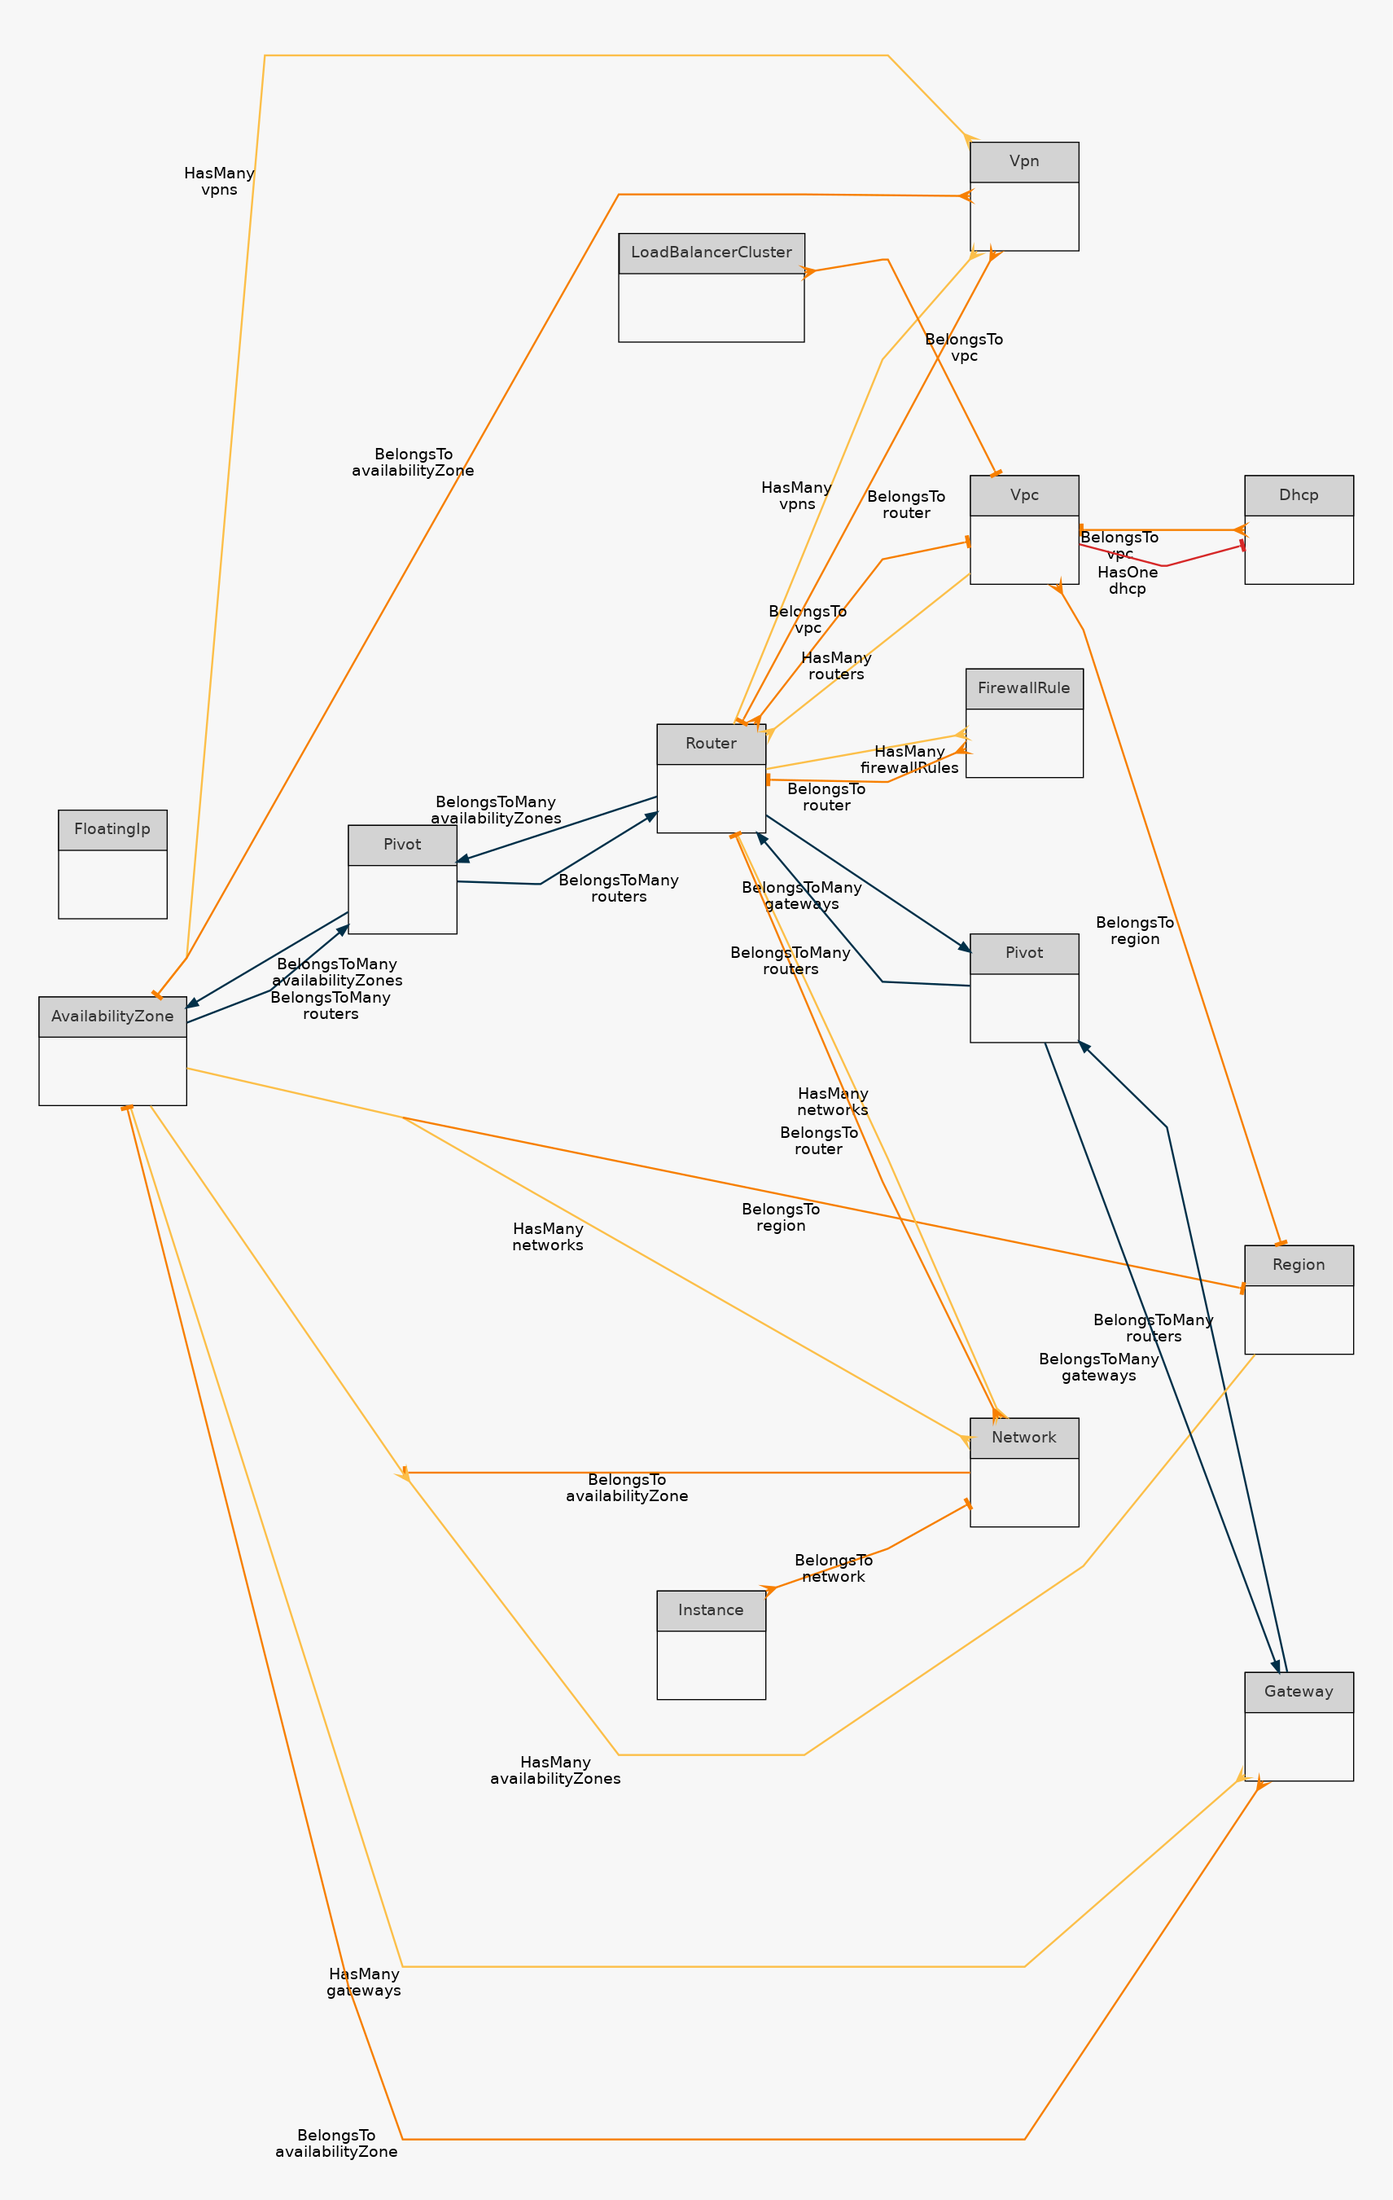
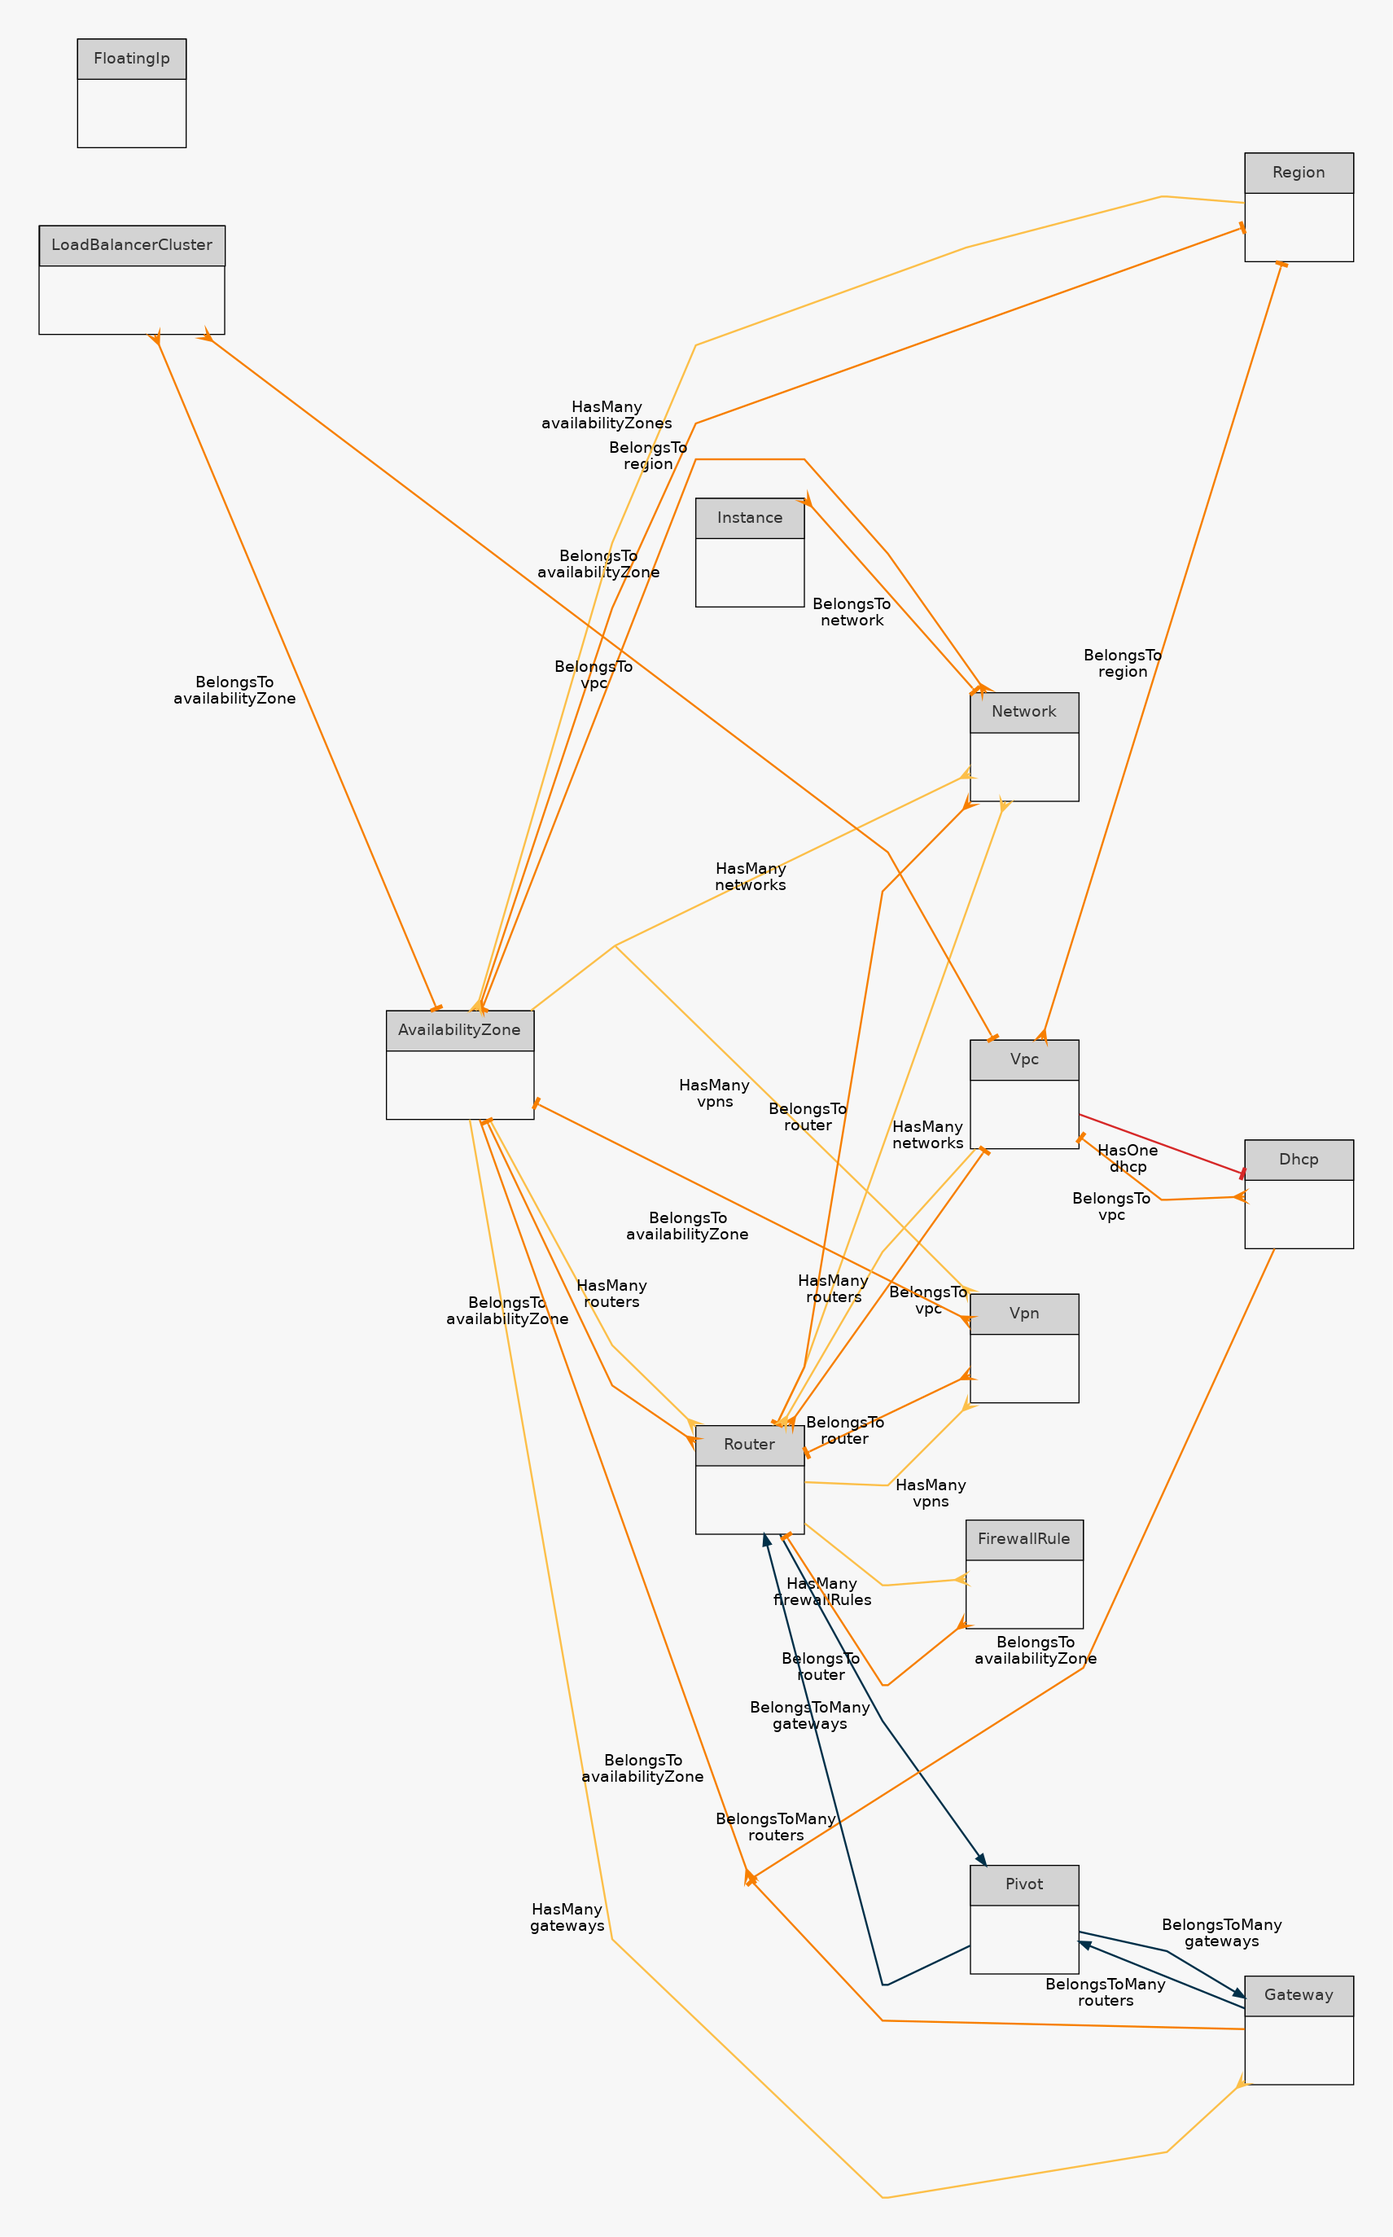
Removed router endpoints from the AZ controller Removed the AZ endpoints from the router controller Changed deployDefault to link the router to a single AZ Changed the DHCP deployment listen to deploy to a single AZ Added AZ to Dhcp model/db Amended AZ to belongsTo for Router model/db Amended Router

diff --git a/app/Models/V2/Router.php b/app/Models/V2/Router.php
@@ -35,6 +35,7 @@ class Router extends Model implements Filterable, Sortable
         'id',
         'name',
         'vpc_id',
+        'availability_zone_id',
         'deployed',
     ];
 
@@ -55,9 +56,9 @@ class Router extends Model implements Filterable, Sortable
         return $this->belongsToMany(Gateway::class);
     }
 
-    public function availabilityZones()
+    public function availabilityZone()
     {
-        return $this->belongsToMany(AvailabilityZone::class);
+        return $this->belongsTo(AvailabilityZone::class);
     }
 
     public function vpns()
@@ -89,7 +90,7 @@ class Router extends Model implements Filterable, Sortable
     public function getAvailableAttribute()
     {
         try {
-            $response = $this->availabilityZones()->first()->nsxClient()->get(
+            $response = $this->availabilityZone->nsxClient()->get(
                 'policy/api/v1/infra/tier-1s/' . $this->getKey() . '/state'
             );
             $response = json_decode($response->getBody()->getContents());
@@ -127,6 +128,7 @@ class Router extends Model implements Filterable, Sortable
             $factory->create('id', Filter::$stringDefaults),
             $factory->create('name', Filter::$stringDefaults),
             $factory->create('vpc_id', Filter::$stringDefaults),
+            $factory->create('availability_zone_id', Filter::$stringDefaults),
             $factory->create('deployed', Filter::$enumDefaults),
             $factory->create('created_at', Filter::$dateDefaults),
             $factory->create('updated_at', Filter::$dateDefaults),
@@ -144,6 +146,7 @@ class Router extends Model implements Filterable, Sortable
             $factory->create('id'),
             $factory->create('name'),
             $factory->create('vpc_id'),
+            $factory->create('availability_zone_id'),
             $factory->create('deployed'),
             $factory->create('created_at'),
             $factory->create('updated_at'),
@@ -168,6 +171,7 @@ class Router extends Model implements Filterable, Sortable
             'id' => 'id',
             'name' => 'name',
             'vpc_id' => 'vpc_id',
+            'availability_zone_id' => 'availability_zone_id',
             'deployed' => 'deployed',
             'created_at' => 'created_at',
             'updated_at' => 'updated_at',

diff --git a/tests/V2/NewIDTest.php b/tests/V2/NewIDTest.php
@@ -119,64 +119,6 @@ class NewIDTest extends TestCase
         );
     }
 
-    public function testAvailabilityZonesRouterAssociation()
-    {
-        $availabilityZones = factory(AvailabilityZone::class)->create();
-        $router = factory(Router::class)->create();
-        $this->put(
-            '/v2/availability-zones/' . $availabilityZones->getKey() . '/routers/' . $router->getKey(),
-            [],
-            [
-                'X-consumer-custom-id' => '0-0',
-                'X-consumer-groups'    => 'ecloud.write',
-            ]
-        )
-            ->assertResponseStatus(204);
-
-        // test that the association has occurred
-        $router->refresh();
-        $associated = $availabilityZones->routers()->first();
-        $this->assertEquals($associated->getKey(), $router->getKey());
-
-        // Test IDs
-        $this->assertRegExp(
-            $this->generateRegExp(AvailabilityZone::class),
-            $availabilityZones->id
-        );
-        $this->assertRegExp(
-            $this->generateRegExp(Router::class),
-            $router->id
-        );
-    }
-
-    public function testAvailabilityZonesRouterDisassociation()
-    {
-        $availabilityZones = factory(AvailabilityZone::class)->create();
-        $router = factory(Router::class)->create();
-        $availabilityZones->routers()->attach($router->getKey());
-        $this->delete(
-            '/v2/availability-zones/' . $availabilityZones->getKey() . '/routers/' . $router->getKey(),
-            [],
-            [
-                'X-consumer-custom-id' => '0-0',
-                'X-consumer-groups'    => 'ecloud.write',
-            ]
-        )
-            ->assertResponseStatus(204);
-        $router->refresh();
-        $this->assertEquals(0, $availabilityZones->routers()->count());
-
-        // Test IDs
-        $this->assertRegExp(
-            $this->generateRegExp(AvailabilityZone::class),
-            $availabilityZones->id
-        );
-        $this->assertRegExp(
-            $this->generateRegExp(Router::class),
-            $router->id
-        );
-    }
-
     public function testRoutersGatewaysAssociation()
     {
         $router = factory(Router::class)->create();

diff --git a/app/Listeners/V2/DhcpDeploy.php b/app/Listeners/V2/DhcpDeploy.php
@@ -19,26 +19,23 @@ class DhcpDeploy implements ShouldQueue
     public function handle(DhcpCreated $event)
     {
         $dhcp = $event->dhcp;
-
-        $event->dhcp->vpc->region->availabilityZones()->each(function ($availabilityZone) use ($dhcp) {
-            try {
-                $availabilityZone->nsxClient()->put('/policy/api/v1/infra/dhcp-server-configs/' . $dhcp->getKey(), [
-                    'json' => [
-                        'lease_time' => config('defaults.dhcp.lease_time'),
-                        'edge_cluster_path' => '/infra/sites/default/enforcement-points/default/edge-clusters/'
-                            . $availabilityZone->nsxClient()->getEdgeClusterId(),
-                        'resource_type' => 'DhcpServerConfig',
-                        'tags' => [
-                            [
-                                'scope' => config('defaults.tag.scope'),
-                                'tag' => $dhcp->vpc->getKey()
-                            ]
+        try {
+            $dhcp->availabilityZone->nsxClient()->put('/policy/api/v1/infra/dhcp-server-configs/' . $dhcp->getKey(), [
+                'json' => [
+                    'lease_time' => config('defaults.dhcp.lease_time'),
+                    'edge_cluster_path' => '/infra/sites/default/enforcement-points/default/edge-clusters/'
+                        . $dhcp->availabilityZone->nsxClient()->getEdgeClusterId(),
+                    'resource_type' => 'DhcpServerConfig',
+                    'tags' => [
+                        [
+                            'scope' => config('defaults.tag.scope'),
+                            'tag' => $dhcp->vpc->getKey()
                         ]
                     ]
-                ]);
-            } catch (GuzzleException $exception) {
-                throw new \Exception($exception->getResponse()->getBody()->getContents());
-            }
-        });
+                ]
+            ]);
+        } catch (GuzzleException $exception) {
+            throw new \Exception($exception->getResponse()->getBody()->getContents());
+        }
     }
 }

diff --git a/app/Models/V2/Dhcp.php b/app/Models/V2/Dhcp.php
@@ -31,6 +31,7 @@ class Dhcp extends Model implements Filterable, Sortable
     protected $fillable = [
         'id',
         'vpc_id',
+        'availability_zone_id',
     ];
 
     protected $dispatchesEvents = [
@@ -42,6 +43,11 @@ class Dhcp extends Model implements Filterable, Sortable
         return $this->belongsTo(Vpc::class);
     }
 
+    public function availabilityZone()
+    {
+        return $this->belongsTo(AvailabilityZone::class);
+    }
+
     /**
      * @param \UKFast\DB\Ditto\Factories\FilterFactory $factory
      * @return array|\UKFast\DB\Ditto\Filter[]
@@ -51,6 +57,7 @@ class Dhcp extends Model implements Filterable, Sortable
         return [
             $factory->create('id', Filter::$stringDefaults),
             $factory->create('vpc_id', Filter::$stringDefaults),
+            $factory->create('availability_zone_id', Filter::$stringDefaults),
             $factory->create('created_at', Filter::$dateDefaults),
             $factory->create('updated_at', Filter::$dateDefaults),
         ];
@@ -66,6 +73,7 @@ class Dhcp extends Model implements Filterable, Sortable
         return [
             $factory->create('id'),
             $factory->create('vpc_id'),
+            $factory->create('availability_zone_id'),
             $factory->create('created_at'),
             $factory->create('updated_at'),
         ];
@@ -88,8 +96,9 @@ class Dhcp extends Model implements Filterable, Sortable
     public function databaseNames()
     {
         return [
-            'id'         => 'id',
-            'vpc_id'     => 'vpc_id',
+            'id' => 'id',
+            'vpc_id' => 'vpc_id',
+            'availability_zone_id' => 'availability_zone_id',
             'created_at' => 'created_at',
             'updated_at' => 'updated_at',
         ];

diff --git a/routes/v2.php b/routes/v2.php
@@ -25,18 +25,6 @@ $router->group($baseRouteParameters, function () use ($router) {
         $router->post('availability-zones', 'AvailabilityZoneController@create');
         $router->patch('availability-zones/{zoneId}', 'AvailabilityZoneController@update');
         $router->delete('availability-zones/{zoneId}', 'AvailabilityZoneController@destroy');
-
-        /** Availability Zones Routers */
-        $router->group([], function () use ($router) {
-            $router->put(
-                'availability-zones/{zoneId}/routers/{routerUuid}',
-                'AvailabilityZoneController@routersCreate'
-            );
-            $router->delete(
-                'availability-zones/{zoneId}/routers/{routerUuid}',
-                'AvailabilityZoneController@routersDestroy'
-            );
-        });
     });
 
     /** Virtual Private Clouds */
@@ -84,19 +72,6 @@ $router->group($baseRouteParameters, function () use ($router) {
     $router->post('routers', 'RouterController@create');
     $router->patch('routers/{routerId}', 'RouterController@update');
     $router->delete('routers/{routerId}', 'RouterController@destroy');
-
-    $router->get(
-        'routers/{routerId}/availability-zones',
-        'RouterController@availabilityZones'
-    );
-    $router->put(
-        'routers/{routerId}/availability-zones/{availabilityZonesId}',
-        'RouterController@availabilityZonesAttach'
-    );
-    $router->delete(
-        'routers/{routerId}/availability-zones/{availabilityZonesId}',
-        'RouterController@availabilityZonesDetach'
-    );
 
     $router->group(['middleware' => 'is-administrator'], function () use ($router) {
         /** Routers Gateways */

diff --git a/app/Http/Controllers/V2/RouterController.php b/app/Http/Controllers/V2/RouterController.php
@@ -86,33 +86,6 @@ class RouterController extends BaseController
         return response()->json([], 204);
     }
 
-    public function availabilityZones(Request $request, string $routerId, QueryTransformer $queryTransformer)
-    {
-        $collection = Router::forUser($request->user)->findOrFail($routerId)->availabilityZones()->query();
-        $queryTransformer->config(AvailabilityZone::class)->transform($collection);
-        return AvailabilityZoneResource::collection($collection->paginate(
-            $request->input('per_page', env('PAGINATION_LIMIT'))
-        ));
-    }
-
-    public function availabilityZonesAttach(Request $request, string $routerId, string $availabilityZonesId)
-    {
-        $availabilityZone = AvailabilityZone::findOrFail($availabilityZonesId);
-        $router = Router::forUser($request->user)->findOrFail($routerId);
-        $router->availabilityZones()->attach($availabilityZone->id);
-        event(new RouterAvailabilityZoneAttach($router, $availabilityZone));
-        return response()->json([], 204);
-    }
-
-    public function availabilityZonesDetach(Request $request, string $routerUuid, string $availabilityZonesId)
-    {
-        $availabilityZone = AvailabilityZone::findOrFail($availabilityZonesId);
-        $router = Router::forUser($request->user)->findOrFail($routerUuid);
-        $router->availabilityZones()->detach($availabilityZone->id);
-        event(new RouterAvailabilityZoneDetach($router, $availabilityZone));
-        return response()->json([], 204);
-    }
-
     /**
      * Associate a gateway with a router
      * @param \Illuminate\Http\Request $request

diff --git a/app/Http/Controllers/V2/AvailabilityZoneController.php b/app/Http/Controllers/V2/AvailabilityZoneController.php
@@ -98,32 +98,4 @@ class AvailabilityZoneController extends BaseController
         $availabilityZone->delete();
         return response()->json([], 204);
     }
-
-    /**
-     * Associate a router with an availability_zone
-     * @param string $zoneId
-     * @param string $routerUuid
-     * @return \Illuminate\Http\JsonResponse
-     */
-    public function routersCreate(string $zoneId, string $routerUuid)
-    {
-        $availabilityZone = AvailabilityZone::findOrFail($zoneId);
-        $router = Router::findOrFail($routerUuid);
-        $availabilityZone->routers()->attach($router->id);
-        return response()->json([], 204);
-    }
-
-    /**
-     * Disassociate a route with an availability_zone
-     * @param string $zoneId
-     * @param string $routerUuid
-     * @return \Illuminate\Http\JsonResponse
-     */
-    public function routersDestroy(string $zoneId, string $routerUuid)
-    {
-        $availabilityZone = AvailabilityZone::findOrFail($zoneId);
-        $router = Router::findOrFail($routerUuid);
-        $availabilityZone->routers()->detach($router->id);
-        return response()->json([], 204);
-    }
 }

diff --git a/database/migrations/2020_09_08_000000_update_az_usage.php b/database/migrations/2020_09_08_000000_update_az_usage.php
@@ -1,0 +1,27 @@
+<?php
+
+use Illuminate\Database\Migrations\Migration;
+use Illuminate\Support\Facades\Schema;
+
+class UpdateAzUsage extends Migration
+{
+    public function up()
+    {
+        Schema::connection('ecloud')->table('routers', function($table) {
+            $table->uuid('availability_zone_id')->default('');
+        });
+        Schema::connection('ecloud')->table('dhcps', function($table) {
+            $table->uuid('availability_zone_id')->default('');
+        });
+    }
+
+    public function down()
+    {
+        Schema::connection('ecloud')->table('routers', function($table) {
+            $table->dropColumn('availability_zone_id');
+        });
+        Schema::connection('ecloud')->table('dhcps', function($table) {
+            $table->dropColumn('availability_zone_id');
+        });
+    }
+}

diff --git a/bootstrap/app.php b/bootstrap/app.php
@@ -119,8 +119,10 @@ $app->register(App\Providers\BillingServiceProvider::class);
 // NSX service provider
 $app->register(App\Providers\NsxServiceProvider::class);
 
-// ErdGenerator - Only enable on dev, never release this to live as the package is not installed due to --no-dev
-//$app->register(BeyondCode\ErdGenerator\ErdGeneratorServiceProvider::class);
+// ErdGenerator - Only enable on dev
+if (is_dir($app->basePath('vendor/beyondcode/laravel-er-diagram-generator'))) {
+    $app->register(BeyondCode\ErdGenerator\ErdGeneratorServiceProvider::class);
+}
 
 /*
 |--------------------------------------------------------------------------

diff --git a/app/Http/Controllers/V2/VpcController.php b/app/Http/Controllers/V2/VpcController.php
@@ -100,7 +100,7 @@ class VpcController extends BaseController
 
         // Create a new router
         $router = $vpc->routers()->create();
-        $router->availabilityZones()->attach($availabilityZone);
+        $router->availabilityZone()->associate($availabilityZone);
         $router->save();
 
         // Create a new network
